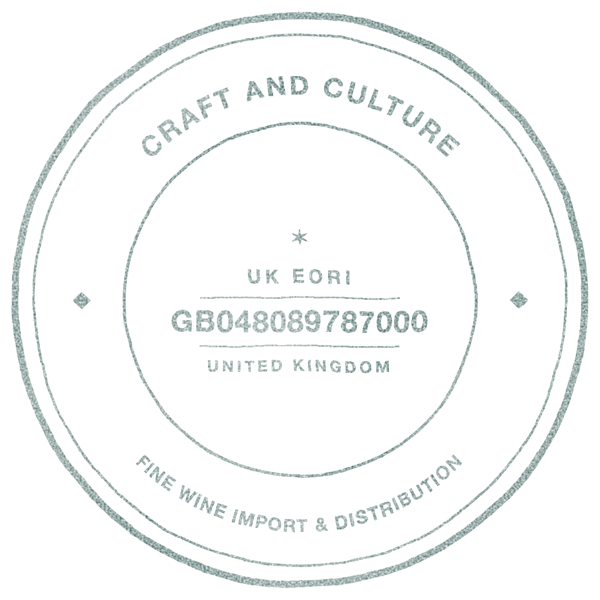
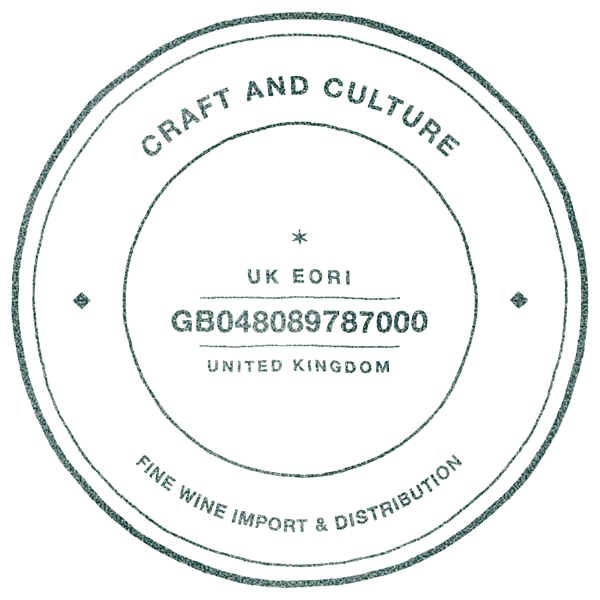
feat(logistics): the UK EORI stamp prints larger and in darker ink, so the EORI number is legible

diff --git a/apps/web/src/app/_exportInvoices/components/ExportInvoicePDFTemplate.tsx b/apps/web/src/app/_exportInvoices/components/ExportInvoicePDFTemplate.tsx
@@ -58,7 +58,7 @@ const styles = StyleSheet.create({
   signField: { borderBottom: '0.5px solid #999999', paddingBottom: 3, fontSize: 8, color: '#444444' },
   exportDetails: { flexDirection: 'row', flexWrap: 'wrap', border: `0.5px solid ${RULE}`, borderRadius: 3, paddingVertical: 3, paddingHorizontal: 8, marginBottom: 6 },
   exportDetail: { width: '25%', flexDirection: 'row', paddingVertical: 1.5, paddingRight: 6 },
-  stamp: { width: 64, height: 64 },
+  stamp: { width: 110, height: 110 },
   pageNumber: { position: 'absolute', bottom: 14, right: 34, fontSize: 6.5, color: MUTED },
 });
 
